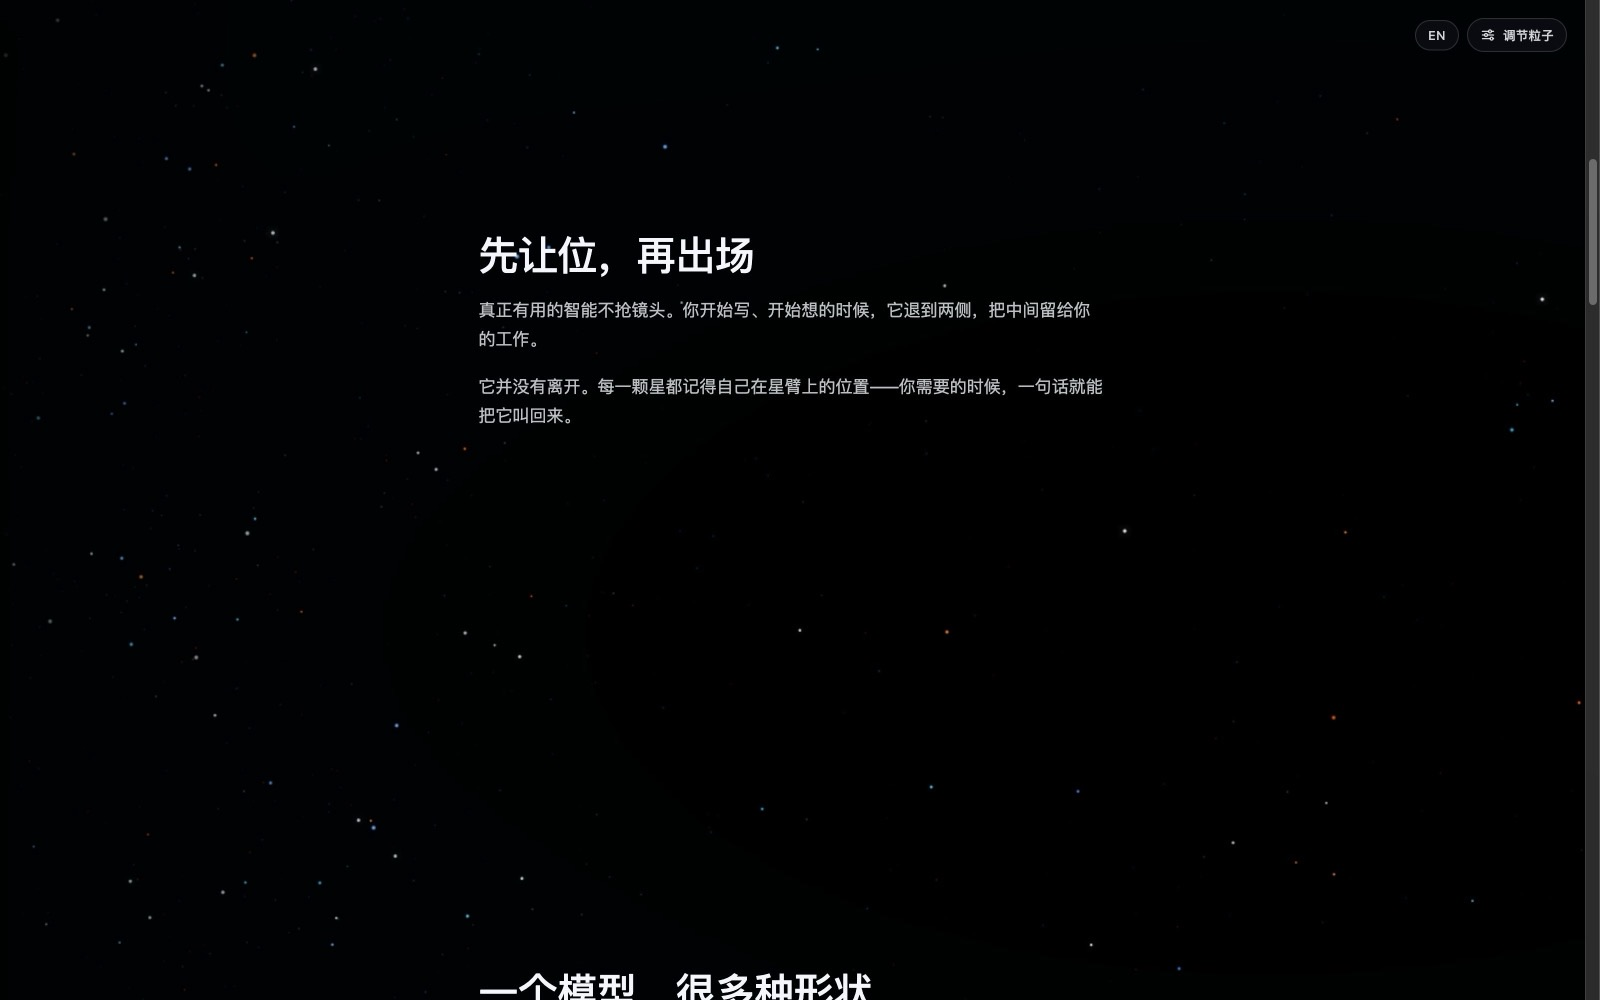
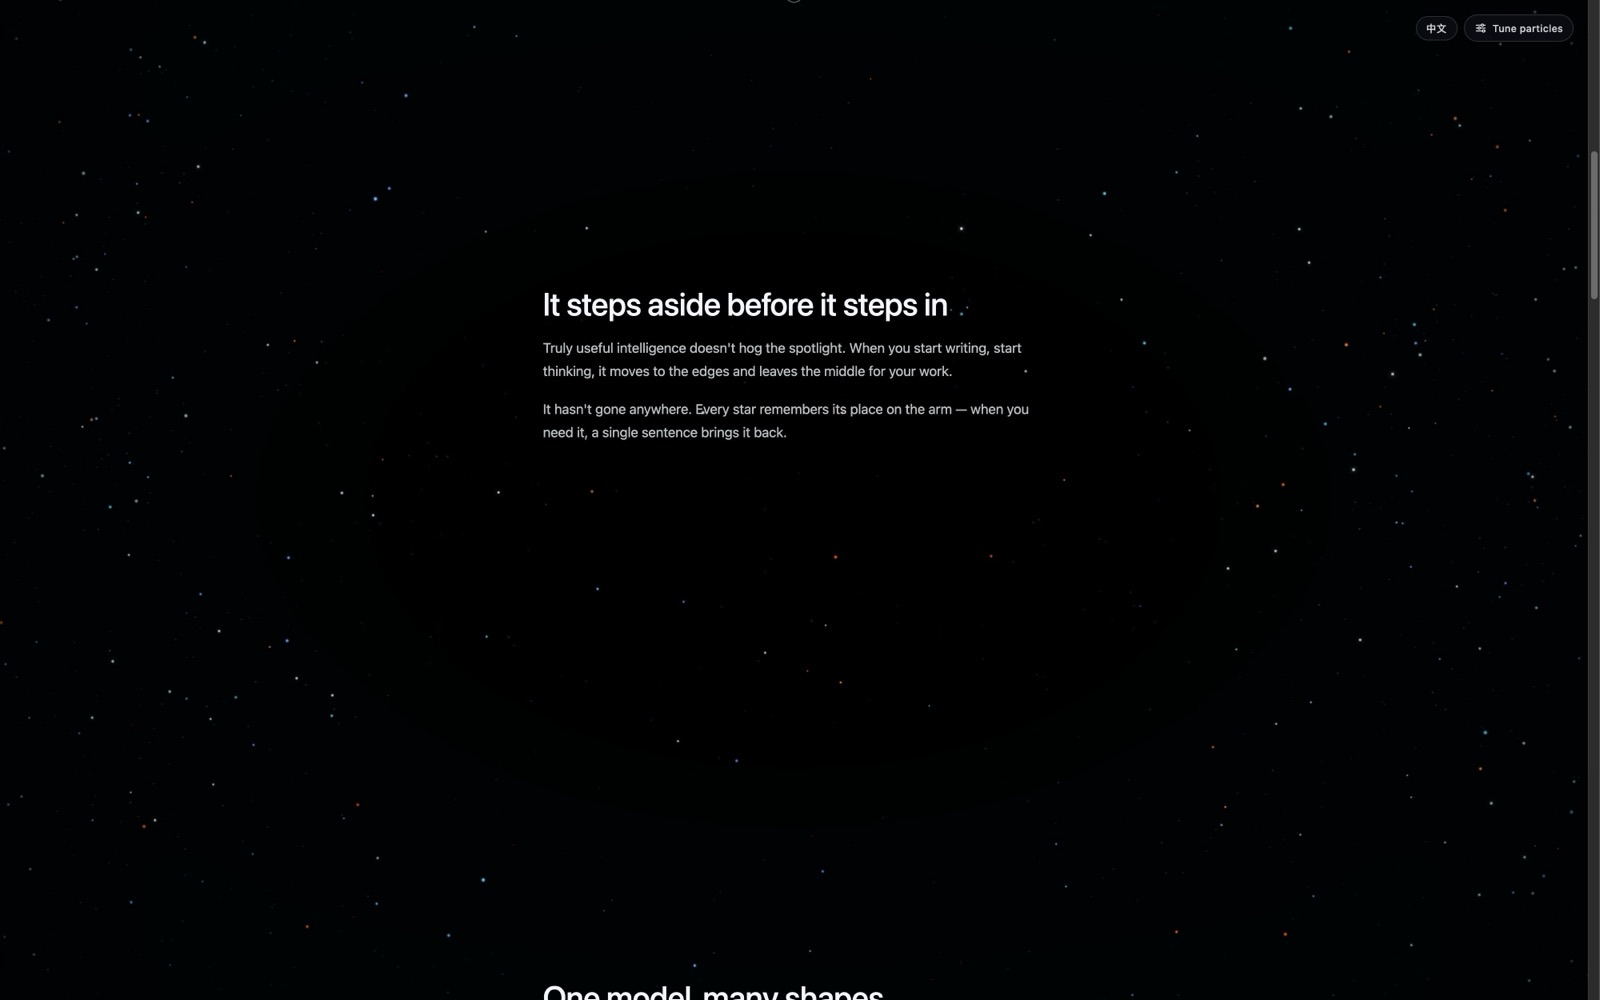
重截 README 截图（2000×1250、英文界面）；实验室加中英文案

diff --git a/lab.html b/lab.html
@@ -6,39 +6,39 @@
     <title>Starflow 实验室 · 任意数字与图标</title>
     <link rel="stylesheet" href="/src/lab.css" />
   </head>
-  <body>
+  <body data-i18n-title="lab.title">
     <div class="stage">
       <canvas id="astra" aria-hidden="true"></canvas>
-      <p class="hint">拖动旋转 · 快速划过推开星尘</p>
+      <p class="hint" data-i18n="lab.hint">拖动旋转 · 快速划过推开星尘</p>
     </div>
 
     <aside class="panel" id="panel">
       <header>
-        <h1>Starflow 实验室 <a class="back" href="/">← 主页</a></h1>
-        <button type="button" id="toggle" aria-label="收起面板">－</button>
+        <h1><span data-i18n="lab.heading">Starflow 实验室</span> <a class="back" href="/" data-i18n="lab.home">← 主页</a></h1>
+        <div class="head-actions"><button type="button" id="lang" class="lang">EN</button><button type="button" id="toggle" data-i18n-aria="lab.collapse" aria-label="收起面板">－</button></div>
       </header>
 
       <div class="body">
         <section>
           <label class="row">
-            <span>形状来源</span>
+            <span data-i18n="lab.source">形状来源</span>
             <select id="mode">
-              <option value="galaxy">原站星系（GPT-6）</option>
-              <option value="text">文字 / 数字</option>
-              <option value="icon">内置图标</option>
-              <option value="svg">粘贴 SVG</option>
-              <option value="file">上传文件</option>
+              <option value="galaxy" data-i18n="lab.source.galaxy">原站星系（GPT-6）</option>
+              <option value="text" data-i18n="lab.source.text">文字 / 数字</option>
+              <option value="icon" data-i18n="lab.source.icon">内置图标</option>
+              <option value="svg" data-i18n="lab.source.svg">粘贴 SVG</option>
+              <option value="file" data-i18n="lab.source.file">上传文件</option>
             </select>
           </label>
 
           <div data-mode="galaxy">
-            <p class="note">原站的 5 条手绘螺旋曲线 + 星系核，逐星与 openai.com 一致。</p>
+            <p class="note" data-i18n="lab.galaxyNote">原站的 5 条手绘螺旋曲线 + 星系核，逐星与原站一致。</p>
           </div>
 
           <div data-mode="text" hidden>
-            <label class="row"><span>内容</span><input id="text" type="text" value="6" maxlength="12" /></label>
+            <label class="row"><span data-i18n="lab.text">内容</span><input id="text" type="text" value="6" maxlength="12" /></label>
             <div class="chips" id="textChips"></div>
-            <label class="row"><span>字重</span>
+            <label class="row"><span data-i18n="lab.weight">字重</span>
               <select id="weight">
                 <option value="300">300</option>
                 <option value="500">500</option>
@@ -49,32 +49,32 @@
           </div>
 
           <div data-mode="icon" hidden>
-            <label class="row"><span>图标</span><select id="icon"></select></label>
+            <label class="row"><span data-i18n="lab.icon">图标</span><select id="icon"></select></label>
           </div>
 
           <div data-mode="svg" hidden>
-            <textarea id="svg" rows="5" placeholder="粘贴完整 &lt;svg&gt;…&lt;/svg&gt; 源码"></textarea>
-            <button type="button" id="applySvg" class="wide">应用 SVG</button>
+            <textarea id="svg" rows="5" data-i18n-placeholder="lab.svgPlaceholder" placeholder="粘贴完整 <svg>…</svg> 源码"></textarea>
+            <button type="button" id="applySvg" class="wide" data-i18n="lab.applySvg">应用 SVG</button>
           </div>
 
           <div data-mode="file" hidden>
             <input id="file" type="file" accept=".svg,image/svg+xml,image/png,image/jpeg,image/webp" />
-            <p class="note">SVG 走矢量轮廓；位图按亮度取形状，建议用黑底白图。</p>
+            <p class="note" data-i18n="lab.fileNote">SVG 走矢量轮廓；位图按亮度取形状，建议用黑底白图。</p>
           </div>
         </section>
 
         <section>
-          <h2>星场</h2>
-          <label class="row"><span>星数 <b id="v-starCount"></b></span><input id="starCount" type="range" min="800" max="16000" step="200" value="4000" /></label>
-          <label class="row" data-raster-only hidden><span>填充占比 <b id="v-fillRatio"></b></span><input id="fillRatio" type="range" min="0" max="0.7" step="0.02" value="0" /></label>
-          <label class="row"><span>星带宽度 <b id="v-scatter"></b></span><input id="scatter" type="range" min="0" max="0.14" step="0.001" value="0.041" /></label>
-          <label class="row"><span>背景星 <b id="v-backgroundRatio"></b></span><input id="backgroundRatio" type="range" min="0" max="1.2" step="0.02" value="0.14" /></label>
-          <label class="row"><span>厚度 <b id="v-rotationDepth"></b></span><input id="rotationDepth" type="range" min="0" max="2" step="0.05" value="1.4" /></label>
-          <label class="row"><span>星星大小 <b id="v-size"></b></span><input id="size" type="range" min="0.3" max="3" step="0.05" value="2.05" /></label>
-          <label class="row"><span>端点衰减 <b id="v-sizeFalloff"></b></span><input id="sizeFalloff" type="range" min="0" max="1" step="0.02" value="0.45" /></label>
-          <label class="row"><span>调色板</span>
+          <h2 data-i18n="lab.field">星场</h2>
+          <label class="row"><span><span data-i18n="lab.starCount">星数</span> <b id="v-starCount"></b></span><input id="starCount" type="range" min="800" max="16000" step="200" value="4000" /></label>
+          <label class="row" data-raster-only hidden><span><span data-i18n="lab.fillRatio">填充占比</span> <b id="v-fillRatio"></b></span><input id="fillRatio" type="range" min="0" max="0.7" step="0.02" value="0" /></label>
+          <label class="row"><span><span data-i18n="lab.scatter">星带宽度</span> <b id="v-scatter"></b></span><input id="scatter" type="range" min="0" max="0.14" step="0.001" value="0.041" /></label>
+          <label class="row"><span><span data-i18n="lab.backgroundRatio">背景星</span> <b id="v-backgroundRatio"></b></span><input id="backgroundRatio" type="range" min="0" max="1.2" step="0.02" value="0.14" /></label>
+          <label class="row"><span><span data-i18n="lab.rotationDepth">厚度</span> <b id="v-rotationDepth"></b></span><input id="rotationDepth" type="range" min="0" max="2" step="0.05" value="1.4" /></label>
+          <label class="row"><span><span data-i18n="lab.size">星星大小</span> <b id="v-size"></b></span><input id="size" type="range" min="0.3" max="3" step="0.05" value="2.05" /></label>
+          <label class="row"><span><span data-i18n="lab.sizeFalloff">端点衰减</span> <b id="v-sizeFalloff"></b></span><input id="sizeFalloff" type="range" min="0" max="1" step="0.02" value="0.45" /></label>
+          <label class="row"><span data-i18n="lab.palette">调色板</span>
             <select id="palette">
-              <option value="astra">Astra（原站）</option>
+              <option value="astra" data-i18n="lab.palette.astra">Astra（原站）</option>
               <option value="aurora">Aurora</option>
               <option value="ember">Ember</option>
               <option value="ice">Ice</option>
@@ -84,29 +84,29 @@
         </section>
 
         <section>
-          <h2>光学</h2>
-          <label class="row"><span>Bloom 强度 <b id="v-bloomIntensity"></b></span><input id="bloomIntensity" type="range" min="0" max="2" step="0.05" value="0.7" /></label>
-          <label class="row"><span>Bloom 阈值 <b id="v-bloomThreshold"></b></span><input id="bloomThreshold" type="range" min="0" max="0.6" step="0.01" value="0.08" /></label>
-          <label class="row"><span>整体亮度 <b id="v-intensity"></b></span><input id="intensity" type="range" min="0.2" max="3" step="0.05" value="1.35" /></label>
-          <label class="row"><span>镜头光晕 <b id="v-flare"></b></span><input id="flare" type="range" min="0" max="1" step="0.02" value="0.28" /></label>
-          <label class="row"><span>氛围色</span><input id="ambientColor" type="color" value="#23435F" /></label>
+          <h2 data-i18n="lab.optics">光学</h2>
+          <label class="row"><span><span data-i18n="lab.bloomIntensity">Bloom 强度</span> <b id="v-bloomIntensity"></b></span><input id="bloomIntensity" type="range" min="0" max="2" step="0.05" value="0.7" /></label>
+          <label class="row"><span><span data-i18n="lab.bloomThreshold">Bloom 阈值</span> <b id="v-bloomThreshold"></b></span><input id="bloomThreshold" type="range" min="0" max="0.6" step="0.01" value="0.08" /></label>
+          <label class="row"><span><span data-i18n="lab.intensity">整体亮度</span> <b id="v-intensity"></b></span><input id="intensity" type="range" min="0.2" max="3" step="0.05" value="1.35" /></label>
+          <label class="row"><span><span data-i18n="lab.flare">镜头光晕</span> <b id="v-flare"></b></span><input id="flare" type="range" min="0" max="1" step="0.02" value="0.28" /></label>
+          <label class="row"><span data-i18n="lab.ambientColor">氛围色</span><input id="ambientColor" type="color" value="#23435F" /></label>
         </section>
 
         <section>
-          <h2>动态</h2>
-          <label class="row"><span>流动速度 <b id="v-flowSpeed"></b></span><input id="flowSpeed" type="range" min="0" max="3" step="0.05" value="0.8" /></label>
-          <label class="row"><span>闪烁速度 <b id="v-twinkleSpeed"></b></span><input id="twinkleSpeed" type="range" min="0" max="2" step="0.02" value="0.62" /></label>
-          <label class="row"><span>光带长度 <b id="v-trailLength"></b></span><input id="trailLength" type="range" min="0" max="0.6" step="0.01" value="0" /></label>
-          <label class="row"><span>光带速度 <b id="v-trailSpeed"></b></span><input id="trailSpeed" type="range" min="0" max="0.5" step="0.01" value="0.09" /></label>
-          <label class="row check"><input id="pointerRepel" type="checkbox" checked /><span>指针推斥（GPGPU）</span></label>
-          <label class="row check"><input id="lensMode" type="checkbox" /><span>指针透镜放大</span></label>
-          <label class="row check"><input id="coreSpin" type="checkbox" checked /><span>星系核自转</span></label>
-          <label class="row check"><input id="autoRotate" type="checkbox" /><span>自动微转</span></label>
+          <h2 data-i18n="lab.motion">动态</h2>
+          <label class="row"><span><span data-i18n="lab.flowSpeed">流动速度</span> <b id="v-flowSpeed"></b></span><input id="flowSpeed" type="range" min="0" max="3" step="0.05" value="0.8" /></label>
+          <label class="row"><span><span data-i18n="lab.twinkleSpeed">闪烁速度</span> <b id="v-twinkleSpeed"></b></span><input id="twinkleSpeed" type="range" min="0" max="2" step="0.02" value="0.62" /></label>
+          <label class="row"><span><span data-i18n="lab.trailLength">光带长度</span> <b id="v-trailLength"></b></span><input id="trailLength" type="range" min="0" max="0.6" step="0.01" value="0" /></label>
+          <label class="row"><span><span data-i18n="lab.trailSpeed">光带速度</span> <b id="v-trailSpeed"></b></span><input id="trailSpeed" type="range" min="0" max="0.5" step="0.01" value="0.09" /></label>
+          <label class="row check"><input id="pointerRepel" type="checkbox" checked /><span data-i18n="lab.pointerRepel">指针推斥（GPGPU）</span></label>
+          <label class="row check"><input id="lensMode" type="checkbox" /><span data-i18n="lab.lensMode">指针透镜放大</span></label>
+          <label class="row check"><input id="coreSpin" type="checkbox" checked /><span data-i18n="lab.coreSpin">星系核自转</span></label>
+          <label class="row check"><input id="autoRotate" type="checkbox" /><span data-i18n="lab.autoRotate">自动微转</span></label>
         </section>
 
         <div class="actions">
-          <button type="button" id="replay">重播入场</button>
-          <button type="button" id="disperse">散开 / 聚合</button>
+          <button type="button" id="replay" data-i18n="lab.replay">重播入场</button>
+          <button type="button" id="disperse" data-i18n="lab.disperse">散开 / 聚合</button>
         </div>
         <p class="stats" id="stats"></p>
       </div>

diff --git a/src/i18n.js b/src/i18n.js
@@ -64,6 +64,63 @@ export const LOCALES = {
     'tuner.replay': '重播入场',
     'tuner.reset': '恢复默认',
     'tuner.stats': (count, layers) => `${count.toLocaleString('zh-CN')} 颗星 · ${layers} 条星臂`,
+    // 实验室
+    'lab.title': 'Starflow 实验室 · 任意数字与图标',
+    'lab.heading': 'Starflow 实验室',
+    'lab.home': '← 主页',
+    'lab.hint': '拖动旋转 · 快速划过推开星尘',
+    'lab.collapse': '收起面板',
+    'lab.source': '形状来源',
+    'lab.source.galaxy': '原站星系（GPT-6）',
+    'lab.source.text': '文字 / 数字',
+    'lab.source.icon': '内置图标',
+    'lab.source.svg': '粘贴 SVG',
+    'lab.source.file': '上传文件',
+    'lab.galaxyNote': '原站的 5 条手绘螺旋曲线 + 星系核，逐星与原站一致。',
+    'lab.text': '内容',
+    'lab.weight': '字重',
+    'lab.icon': '图标',
+    'lab.svgPlaceholder': '粘贴完整 <svg>…</svg> 源码',
+    'lab.applySvg': '应用 SVG',
+    'lab.fileNote': 'SVG 走矢量轮廓；位图按亮度取形状，建议用黑底白图。',
+    'lab.field': '星场',
+    'lab.starCount': '星数',
+    'lab.fillRatio': '填充占比',
+    'lab.scatter': '星带宽度',
+    'lab.backgroundRatio': '背景星',
+    'lab.rotationDepth': '厚度',
+    'lab.size': '星星大小',
+    'lab.sizeFalloff': '端点衰减',
+    'lab.palette': '调色板',
+    'lab.palette.astra': 'Astra（原站）',
+    'lab.optics': '光学',
+    'lab.bloomIntensity': 'Bloom 强度',
+    'lab.bloomThreshold': 'Bloom 阈值',
+    'lab.intensity': '整体亮度',
+    'lab.flare': '镜头光晕',
+    'lab.ambientColor': '氛围色',
+    'lab.motion': '动态',
+    'lab.flowSpeed': '流动速度',
+    'lab.twinkleSpeed': '闪烁速度',
+    'lab.trailLength': '光带长度',
+    'lab.trailSpeed': '光带速度',
+    'lab.pointerRepel': '指针推斥（GPGPU）',
+    'lab.lensMode': '指针透镜放大',
+    'lab.coreSpin': '星系核自转',
+    'lab.autoRotate': '自动微转',
+    'lab.replay': '重播入场',
+    'lab.disperse': '散开 / 聚合',
+    'lab.fallback': '静态回退模式（无 WebGL）',
+    'lab.stats': (count, layers, kind) => `${count.toLocaleString('zh-CN')} 颗星 · ${layers} 条${kind}`,
+    'lab.kind.galaxy': '星臂',
+    'lab.kind.paths': '路径',
+    'lab.kind.contours': '轮廓',
+    'lab.preset.cursor': '光标（原站）',
+    'lab.preset.openai-knot': 'OpenAI 结（原站）',
+    'lab.preset.heart': '心形',
+    'lab.preset.star': '星形',
+    'lab.preset.bolt': '闪电',
+    'lab.preset.ring': '圆环',
   },
   en: {
     'meta.title': 'Starflow · A sky that flows',
@@ -125,6 +182,63 @@ export const LOCALES = {
     'tuner.replay': 'Replay intro',
     'tuner.reset': 'Reset defaults',
     'tuner.stats': (count, layers) => `${count.toLocaleString('en-US')} stars · ${layers} arms`,
+    // Lab
+    'lab.title': 'Starflow Lab · any text or icon',
+    'lab.heading': 'Starflow Lab',
+    'lab.home': '← Home',
+    'lab.hint': 'Drag to rotate · sweep across to push the stardust',
+    'lab.collapse': 'Collapse panel',
+    'lab.source': 'Shape source',
+    'lab.source.galaxy': 'Galaxy (original)',
+    'lab.source.text': 'Text / digits',
+    'lab.source.icon': 'Built-in icons',
+    'lab.source.svg': 'Paste SVG',
+    'lab.source.file': 'Upload a file',
+    'lab.galaxyNote': "The original's five hand-drawn spiral curves plus the core cluster, star for star.",
+    'lab.text': 'Content',
+    'lab.weight': 'Weight',
+    'lab.icon': 'Icon',
+    'lab.svgPlaceholder': 'Paste a complete <svg>…</svg>',
+    'lab.applySvg': 'Apply SVG',
+    'lab.fileNote': 'SVG uses vector outlines; bitmaps are shaped by luminance, so white on black works best.',
+    'lab.field': 'Star field',
+    'lab.starCount': 'Stars',
+    'lab.fillRatio': 'Fill ratio',
+    'lab.scatter': 'Band width',
+    'lab.backgroundRatio': 'Background stars',
+    'lab.rotationDepth': 'Depth',
+    'lab.size': 'Star size',
+    'lab.sizeFalloff': 'Tip falloff',
+    'lab.palette': 'Palette',
+    'lab.palette.astra': 'Astra (original)',
+    'lab.optics': 'Optics',
+    'lab.bloomIntensity': 'Bloom intensity',
+    'lab.bloomThreshold': 'Bloom threshold',
+    'lab.intensity': 'Overall brightness',
+    'lab.flare': 'Lens flare',
+    'lab.ambientColor': 'Ambient color',
+    'lab.motion': 'Motion',
+    'lab.flowSpeed': 'Flow speed',
+    'lab.twinkleSpeed': 'Twinkle speed',
+    'lab.trailLength': 'Trail length',
+    'lab.trailSpeed': 'Trail speed',
+    'lab.pointerRepel': 'Pointer repel (GPGPU)',
+    'lab.lensMode': 'Pointer lens',
+    'lab.coreSpin': 'Core spin',
+    'lab.autoRotate': 'Gentle auto-rotation',
+    'lab.replay': 'Replay intro',
+    'lab.disperse': 'Scatter / gather',
+    'lab.fallback': 'Static fallback (no WebGL)',
+    'lab.stats': (count, layers, kind) => `${count.toLocaleString('en-US')} stars · ${layers} ${kind}`,
+    'lab.kind.galaxy': 'arms',
+    'lab.kind.paths': 'paths',
+    'lab.kind.contours': 'contours',
+    'lab.preset.cursor': 'Cursor (original)',
+    'lab.preset.openai-knot': 'Knot (original)',
+    'lab.preset.heart': 'Heart',
+    'lab.preset.star': 'Star',
+    'lab.preset.bolt': 'Bolt',
+    'lab.preset.ring': 'Ring',
   },
 }
 
@@ -157,9 +271,10 @@ export function applyLocale(locale, root = document) {
     localStorage.setItem(STORAGE_KEY, current)
   } catch {}
   document.documentElement.lang = current === 'zh' ? 'zh-CN' : 'en'
-  document.title = t('meta.title')
+  document.title = t(root === document && document.body?.dataset.i18nTitle ? document.body.dataset.i18nTitle : 'meta.title')
   for (const element of root.querySelectorAll('[data-i18n]')) element.textContent = t(element.dataset.i18n)
   for (const element of root.querySelectorAll('[data-i18n-aria]')) element.setAttribute('aria-label', t(element.dataset.i18nAria))
   for (const element of root.querySelectorAll('[data-i18n-title]')) element.title = t(element.dataset.i18nTitle)
+  for (const element of root.querySelectorAll('[data-i18n-placeholder]')) element.placeholder = t(element.dataset.i18nPlaceholder)
   return current
 }

diff --git a/src/lab.js b/src/lab.js
@@ -1,6 +1,9 @@
 import { detectWebGL, renderStaticFallback } from './astra/fallback.js'
 import { createAstraScene } from './astra/scene.js'
 import { DEFAULT_SHAPE_SETTINGS, ICON_PRESETS, PATH_PRESETS, TEXT_PRESETS } from './presets.js'
+import { applyLocale, detectLocale, getLocale, t } from './i18n.js'
+
+applyLocale(detectLocale())
 
 const $ = (id) => document.getElementById(id)
 const canvas = $('astra')
@@ -27,6 +30,13 @@ const fieldOptions = {
 
 let source = { type: 'galaxy' }
 let rebuildTimer = 0
+let lastStats = null
+
+function renderStats() {
+  if (!lastStats) return
+  const kind = t(source.type === 'galaxy' ? 'lab.kind.galaxy' : source.type === 'paths' ? 'lab.kind.paths' : 'lab.kind.contours')
+  $('stats').textContent = t('lab.stats', lastStats.count, lastStats.layers, kind)
+}
 
 /**
  * 路径形状（光标 / OpenAI 结）和星系用的是两套参数：星带宽度、暗星尺寸、亮星压暗、
@@ -47,12 +57,11 @@ function rebuild() {
   try {
     if (!astra) {
       renderStaticFallback(canvas, source, fieldOptions)
-      $('stats').textContent = '静态回退模式（无 WebGL）'
+      $('stats').textContent = t('lab.fallback')
       return
     }
-    const stats = astra.setSource(source, fieldOptions)
-    const unit = source.type === 'galaxy' ? '星臂' : source.type === 'paths' ? '路径' : '轮廓'
-    $('stats').textContent = `${stats.count.toLocaleString()} 颗星 · ${stats.layers} 条${unit}`
+    lastStats = astra.setSource(source, fieldOptions)
+    renderStats()
   } catch (error) {
     $('stats').textContent = `⚠ ${error.message}`
     console.error(error)
@@ -114,9 +123,16 @@ const iconSelect = $('icon')
 for (const [id, preset] of Object.entries({ ...PATH_PRESETS, ...ICON_PRESETS })) {
   const option = document.createElement('option')
   option.value = id
-  option.textContent = preset.label
+  option.dataset.i18n = `lab.preset.${id}`
+  option.textContent = t(`lab.preset.${id}`) === `lab.preset.${id}` ? preset.label : t(`lab.preset.${id}`)
   iconSelect.append(option)
 }
+$('lang').textContent = getLocale() === 'zh' ? 'EN' : '中文'
+$('lang').addEventListener('click', () => {
+  applyLocale(getLocale() === 'zh' ? 'en' : 'zh')
+  $('lang').textContent = getLocale() === 'zh' ? 'EN' : '中文'
+  renderStats()
+})
 function applyIcon() {
   const pathPreset = PATH_PRESETS[iconSelect.value]
   if (pathPreset) {

diff --git a/src/lab.css b/src/lab.css
@@ -148,6 +148,8 @@ button {
 button:hover { background: rgba(255, 255, 255, 0.13); }
 button.wide { width: 100%; margin-top: 6px; }
 .panel header button { width: 24px; height: 24px; padding: 0; line-height: 1; }
+.head-actions { display: flex; gap: 6px; }
+.panel header button.lang { width: auto; padding: 0 8px; font-size: 11px; letter-spacing: 0.04em; }
 
 .chips { display: flex; flex-wrap: wrap; gap: 5px; margin-bottom: 9px; }
 .chips button { padding: 3px 9px; font-size: 12px; border-radius: 999px; }

diff --git a/README.en.md b/README.en.md
@@ -64,10 +64,11 @@ The panel has four groups: star field (count, size, band width, background stars
 field), optics (bloom, brightness, lens flare, ambient color, vignette), motion (flow, twinkle, shape band width,
 pointer repel, core spin), and performance (post-processing tier, auto-degrade).
 
-Copy comes in Chinese and English (`src/i18n.js`); mark an element with `data-i18n="key"`. The default follows the
-browser language, and the choice is remembered in `localStorage`.
+Both the home page and the lab ship with Chinese and English copy (`src/i18n.js`); mark an element with
+`data-i18n="key"`. The default follows the browser language, and the choice is remembered in `localStorage`.
+The screenshots above show the English UI; here is the Chinese one:
 
-![English version](docs/screenshots/07-english.jpeg)
+![Chinese version](docs/screenshots/07-chinese.jpeg)
 
 ## Lab: any text or icon
 

diff --git a/README.md b/README.md
@@ -60,9 +60,9 @@ astra.setScroll({
 面板分四组：星场（星数、大小、星带宽度、背景星、厚度、调色板，改动会重建星场）、光学（bloom、亮度、
 镜头光晕、氛围色、暗角）、动态（流速、闪烁、形状星带、推斥、星系核自转）、性能（后处理档位、自动降级）。
 
-文案有中英两套（`src/i18n.js`），元素上写 `data-i18n="键"` 即可；默认按浏览器语言，切换后记在 `localStorage`。
+主页和实验室的文案都有中英两套（`src/i18n.js`），元素上写 `data-i18n="键"` 即可；默认按浏览器语言，切换后记在 `localStorage`。上面的截图是英文界面，下面是中文：
 
-![英文版](docs/screenshots/07-english.jpeg)
+![中文版](docs/screenshots/07-chinese.jpeg)
 
 ## 实验室：任意文字与图标
 
